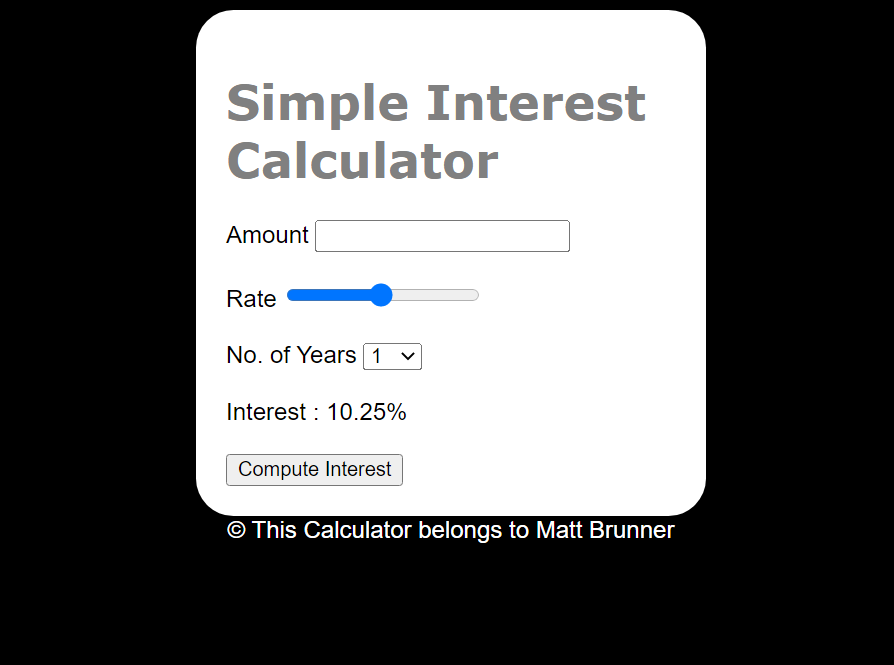
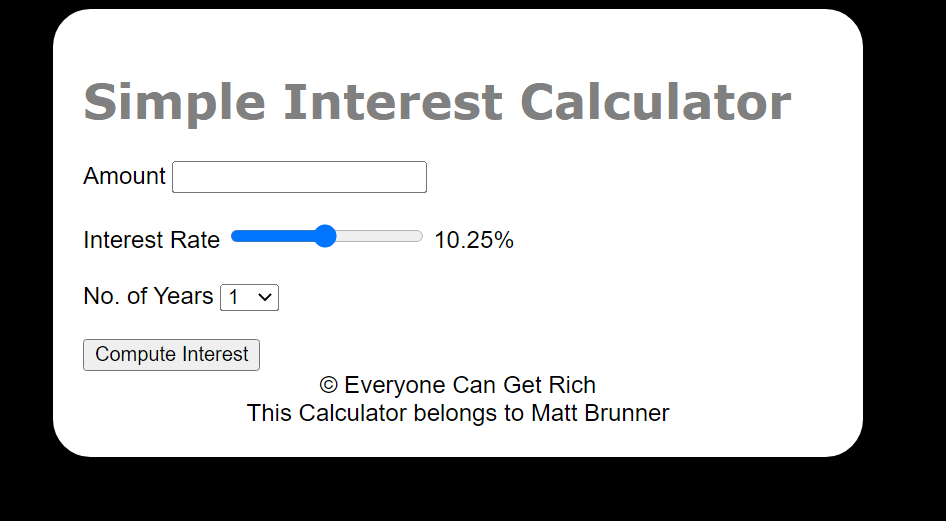
finished

diff --git a/index.html b/index.html
@@ -1,46 +1,46 @@
 <!DOCTYPE html>
 <html>
     <head>
-        <title>Simple Interest Calculator</title>
+        <title>Web App - Simple Interest Calculator</title>
     <script src="script.js"></script>
     <link rel="stylesheet" href="style.css">
     </head>
     <body>
         <div class="maindiv">
-        <h1>Simple Interest Calculator</h1>
-
-        Amount 
-        <!-- add onchange function for validate principal -->
-        <input type="number"  id="principal" onchange="validatePrincipal()">  <br/><br/>
-        <!-- changed input to range set attributes min to 1, max to 20, step to 0.25, & value to 10.25 -->
-        Rate <input type="range" id="rate" step=0.25 min=1 max=20 value=10.25 onchange="updateRate()"> <br/><br/>
-        <!-- changed input to select and made values 1-10 as options -->
-        No. of Years <select id="years">
-            <option value="1">1</option>
-            <option value="2">2</option>
-            <option value="3">3</option>
-            <option value="4">4</option>
-            <option value="5">5</option>
-            <option value="6">6</option>
-            <option value="7">7</option>
-            <option value="8">8</option>
-            <option value="9">9</option>
-            <option value="10">10</option>
-        </select>  <br/><br/>
-        <!-- create a span to display rate_val and set the display to 10.25% -->
-        Interest : 
-        <span id="rate_val">
-            10.25%
-        </span>     <br/><br/>
-        <!-- changed the button to "Compute Interest" and create a span to display result -->
-        <button onclick="compute()">Compute Interest</button> </br>
-        <span id="result">
-        <!-- left blank because the result is decided through script.js -->
-        </span>
+            <h1>Simple Interest Calculator</h1>
+                Amount 
+                <!-- add onchange function for validate principal -->
+                <input type="number"  id="principal" onchange="validatePrincipal()">  <br/><br/>
+                <!-- changed input to range set attributes min to 1, max to 20, step to 0.25, & value to 10.25 -->
+                Interest Rate <input type="range" id="rate" step=0.25 min=1 max=20 value=10.25 onchange="updateRate()"> 
+                <!-- create a span to display rate_val and set the display to 10.25% -->
+                <span id="rate_val">
+                10.25%
+                </span><br/><br/>
+                <!-- changed input to select and made values 1-10 as options -->
+                No. of Years <select id="years">
+                    <option value="1">1</option>
+                    <option value="2">2</option>
+                    <option value="3">3</option>
+                    <option value="4">4</option>
+                    <option value="5">5</option>
+                    <option value="6">6</option>
+                    <option value="7">7</option>
+                    <option value="8">8</option>
+                    <option value="9">9</option>
+                    <option value="10">10</option>
+                </select>  <br/><br/>
+                <!-- changed the button to "Compute Interest" and create a span to display result -->
+                <button onclick="compute()">Compute Interest</button> </br>
+                <span id="result">
+                <!-- left blank because the result is decided through script.js -->
+                </span>
+            <!-- create a copyright message inside the footer tag -->
+            <footer class="footer">
+                &#169; Everyone Can Get Rich </br>
+                This Calculator belongs to Matt Brunner
+            </footer>
         </div>
     </body>
-    <!-- create a copyright message inside the footer tag -->
-    <footer class="footer">
-        &#169; This Calculator belongs to Matt Brunner
-    </footer>
+    
 </html>

diff --git a/style.css b/style.css
@@ -13,10 +13,11 @@ h1{
 .maindiv {
     background-color: white;
     color: black;
-    width: 300px;
+    width: 500px;
     padding: 20px;
     border-radius: 25px;
     margin: auto;
+    
 }
 /* set mark highlights background to grey and font color to white */
 mark{

diff --git a/script.js b/script.js
@@ -36,4 +36,10 @@ function validatePrincipal()
         principal.focus();
         return false;
     }
+    //if the principal is blank
+    if (x == "") {
+        alert("Enter a Positive Number");
+        principal.focus();
+        return false;
+    }
 }
